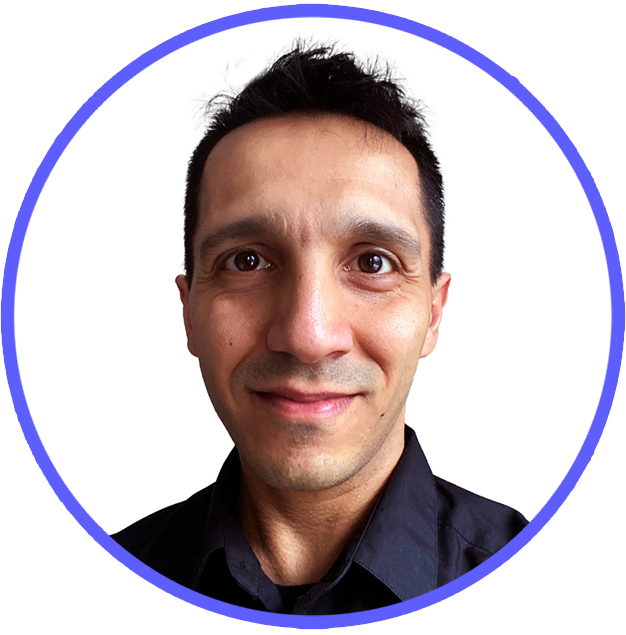
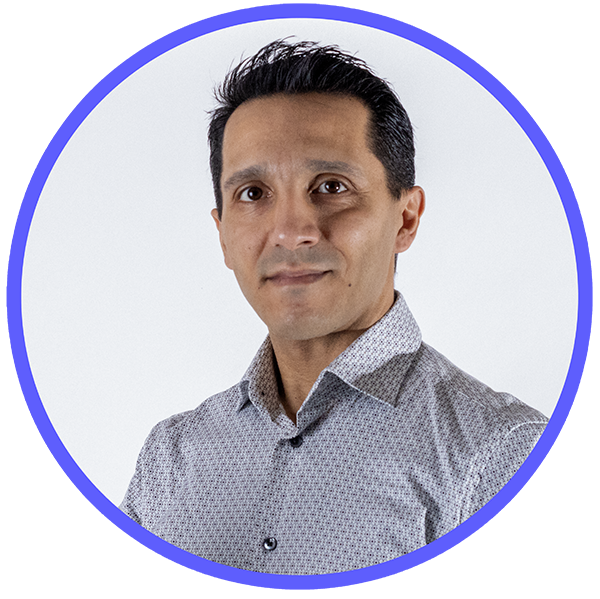
new img hero

diff --git a/src/style/hero/hero.css b/src/style/hero/hero.css
@@ -1,1 +1,1 @@
-.hero-wrapper{padding-top:80px;max-width:100vw;min-height:100vh;width:100vw;display:-webkit-box;display:-ms-flexbox;display:flex;-webkit-box-pack:justify;-ms-flex-pack:justify;justify-content:space-between;-webkit-box-align:center;-ms-flex-align:center;align-items:center;-webkit-box-orient:horizontal;-webkit-box-direction:normal;-ms-flex-direction:row;flex-direction:row;-ms-flex-wrap:wrap;flex-wrap:wrap;background:-webkit-gradient(linear,left top,right top,from(white),to(rgb(116,253,255)));background:linear-gradient(to right,white,rgb(116,253,255))}.hero-wrapper .hero-container{max-width:1200px;min-height:50vh;width:1200px;display:-webkit-box;display:-ms-flexbox;display:flex;-webkit-box-pack:justify;-ms-flex-pack:justify;justify-content:space-between;-webkit-box-align:center;-ms-flex-align:center;align-items:center;-webkit-box-orient:horizontal;-webkit-box-direction:normal;-ms-flex-direction:row;flex-direction:row;-ms-flex-wrap:wrap;flex-wrap:wrap;margin:auto}.hero-wrapper .hero-container .hero-content{max-width:700px;min-height:200px;width:700px;display:-webkit-box;display:-ms-flexbox;display:flex;-webkit-box-pack:justify;-ms-flex-pack:justify;justify-content:space-between;-webkit-box-align:start;-ms-flex-align:start;align-items:flex-start;-webkit-box-orient:vertical;-webkit-box-direction:normal;-ms-flex-direction:column;flex-direction:column;-ms-flex-wrap:wrap;flex-wrap:wrap}.hero-wrapper .hero-container .hero-content .hero-heading{font-family:"Open Sans",serif;font-size:60px;font-weight:700}.hero-wrapper .hero-container .hero-content .hero-heading .hero-name{font-family:"Open Sans",serif;font-size:60px;font-weight:700;color:rgb(0,0,255)}.hero-wrapper .hero-container .hero-content .typewriter-container{font-family:"Open Sans",serif;font-size:60px;font-weight:700;color:rgb(0,0,255)}.hero-wrapper .hero-container .hero-content .hero-info{font-family:"Roboto",serif;font-size:18px;letter-spacing:1.5px;line-height:30px;font-weight:300;color:#212121;max-width:600px;min-height:auto;width:600px;margin-top:1rem;text-align:justify}.hero-wrapper .hero-container .hero-content .hero-icons{max-width:150px;min-height:50px;width:150px;display:-webkit-box;display:-ms-flexbox;display:flex;-ms-flex-pack:distribute;justify-content:space-around;-webkit-box-align:start;-ms-flex-align:start;align-items:flex-start;-webkit-box-orient:horizontal;-webkit-box-direction:normal;-ms-flex-direction:row;flex-direction:row;-ms-flex-wrap:wrap;flex-wrap:wrap;margin:30px 0}.hero-wrapper .hero-container .hero-content .hero-icons .hero-icon{color:rgb(0,0,255);-webkit-transition:color 0.3s ease;transition:color 0.3s ease}.hero-wrapper .hero-container .hero-content .hero-icons .hero-icon:hover{-webkit-transform:scale(1.15);transform:scale(1.15);color:#23a345}.hero-wrapper .hero-container .hero-content .hero-cta-container{display:-webkit-box;display:-ms-flexbox;display:flex;-webkit-box-pack:justify;-ms-flex-pack:justify;justify-content:space-between;-webkit-box-align:center;-ms-flex-align:center;align-items:center;-webkit-box-orient:horizontal;-webkit-box-direction:normal;-ms-flex-direction:row;flex-direction:row;-ms-flex-wrap:wrap;flex-wrap:wrap;max-width:450px;min-height:auto;width:450px;text-align:center}.hero-wrapper .hero-container .hero-content .hero-cta-container .hero-cta{font-family:"Roboto",serif;font-size:18px;letter-spacing:1.5px;line-height:30px;font-weight:300;color:#212121;width:200px;height:50px;background-color:rgb(0,0,255);color:#FFF;border-radius:4px;border:none;cursor:pointer;cursor:pointer}.hero-wrapper .hero-container .hero-content .hero-cta-container .hero-cta:hover{background-color:#23a345;color:#FFF;-webkit-transform:scale(1.05);transform:scale(1.05)}.hero-wrapper .hero-container .hero-content .hero-cta-container .hero-cta:active{background-color:#FF5722;-webkit-transform:scale(0.95);transform:scale(0.95)}.hero-wrapper .hero-image{max-width:400px;min-height:600px;width:400px;display:-webkit-box;display:-ms-flexbox;display:flex;-webkit-box-pack:center;-ms-flex-pack:center;justify-content:center;-webkit-box-align:center;-ms-flex-align:center;align-items:center;-webkit-box-orient:horizontal;-webkit-box-direction:normal;-ms-flex-direction:row;flex-direction:row;-ms-flex-wrap:wrap;flex-wrap:wrap}.hero-wrapper .hero-image img{width:100%;max-width:500px;height:auto}
+.hero-wrapper{padding-top:80px;max-width:100vw;min-height:100vh;width:100vw;display:-webkit-box;display:-ms-flexbox;display:flex;-webkit-box-pack:justify;-ms-flex-pack:justify;justify-content:space-between;-webkit-box-align:center;-ms-flex-align:center;align-items:center;-webkit-box-orient:horizontal;-webkit-box-direction:normal;-ms-flex-direction:row;flex-direction:row;-ms-flex-wrap:wrap;flex-wrap:wrap;background:-webkit-gradient(linear,left top,right top,from(white),to(rgb(116,253,255)));background:linear-gradient(to right,white,rgb(116,253,255))}.hero-wrapper .hero-container{max-width:1200px;min-height:auto;width:1200px;display:-webkit-box;display:-ms-flexbox;display:flex;-webkit-box-pack:justify;-ms-flex-pack:justify;justify-content:space-between;-webkit-box-align:center;-ms-flex-align:center;align-items:center;-webkit-box-orient:horizontal;-webkit-box-direction:normal;-ms-flex-direction:row;flex-direction:row;-ms-flex-wrap:wrap;flex-wrap:wrap;margin:auto}.hero-wrapper .hero-container .hero-content{max-width:700px;min-height:200px;width:700px;display:-webkit-box;display:-ms-flexbox;display:flex;-webkit-box-pack:justify;-ms-flex-pack:justify;justify-content:space-between;-webkit-box-align:start;-ms-flex-align:start;align-items:flex-start;-webkit-box-orient:vertical;-webkit-box-direction:normal;-ms-flex-direction:column;flex-direction:column;-ms-flex-wrap:wrap;flex-wrap:wrap}.hero-wrapper .hero-container .hero-content .hero-heading{font-family:"Open Sans",serif;font-size:60px;font-weight:700}.hero-wrapper .hero-container .hero-content .hero-heading .hero-name{font-family:"Open Sans",serif;font-size:60px;font-weight:700;color:rgb(0,0,255)}.hero-wrapper .hero-container .hero-content .typewriter-container{font-family:"Open Sans",serif;font-size:60px;font-weight:700;color:rgb(0,0,255)}.hero-wrapper .hero-container .hero-content .hero-info{font-family:"Roboto",serif;font-size:18px;letter-spacing:1.5px;line-height:30px;font-weight:300;color:#212121;max-width:600px;min-height:auto;width:600px;margin-top:1rem;text-align:justify}.hero-wrapper .hero-container .hero-content .hero-icons{max-width:150px;min-height:50px;width:150px;display:-webkit-box;display:-ms-flexbox;display:flex;-ms-flex-pack:distribute;justify-content:space-around;-webkit-box-align:start;-ms-flex-align:start;align-items:flex-start;-webkit-box-orient:horizontal;-webkit-box-direction:normal;-ms-flex-direction:row;flex-direction:row;-ms-flex-wrap:wrap;flex-wrap:wrap;margin:30px 0}.hero-wrapper .hero-container .hero-content .hero-icons .hero-icon{color:rgb(0,0,255);-webkit-transition:color 0.3s ease;transition:color 0.3s ease}.hero-wrapper .hero-container .hero-content .hero-icons .hero-icon:hover{-webkit-transform:scale(1.15);transform:scale(1.15);color:#23a345}.hero-wrapper .hero-container .hero-content .hero-cta-container{display:-webkit-box;display:-ms-flexbox;display:flex;-webkit-box-pack:justify;-ms-flex-pack:justify;justify-content:space-between;-webkit-box-align:center;-ms-flex-align:center;align-items:center;-webkit-box-orient:horizontal;-webkit-box-direction:normal;-ms-flex-direction:row;flex-direction:row;-ms-flex-wrap:wrap;flex-wrap:wrap;max-width:450px;min-height:auto;width:450px;text-align:center}.hero-wrapper .hero-container .hero-content .hero-cta-container .hero-cta{font-family:"Roboto",serif;font-size:18px;letter-spacing:1.5px;line-height:30px;font-weight:300;color:#212121;width:200px;height:50px;background-color:rgb(0,0,255);color:#FFF;border-radius:4px;border:none;cursor:pointer;cursor:pointer}.hero-wrapper .hero-container .hero-content .hero-cta-container .hero-cta:hover{background-color:#23a345;color:#FFF;-webkit-transform:scale(1.05);transform:scale(1.05)}.hero-wrapper .hero-container .hero-content .hero-cta-container .hero-cta:active{background-color:#FF5722;-webkit-transform:scale(0.95);transform:scale(0.95)}.hero-wrapper .hero-image{max-width:500px;min-height:auto;width:500px;display:-webkit-box;display:-ms-flexbox;display:flex;-webkit-box-pack:center;-ms-flex-pack:center;justify-content:center;-webkit-box-align:center;-ms-flex-align:center;align-items:center;-webkit-box-orient:horizontal;-webkit-box-direction:normal;-ms-flex-direction:row;flex-direction:row;-ms-flex-wrap:wrap;flex-wrap:wrap}.hero-wrapper .hero-image img{width:100%;max-width:500px;height:auto}

diff --git a/src/components/about/About.jsx b/src/components/about/About.jsx
@@ -23,7 +23,7 @@ const About = () => {
                 I am always been a creative person, in this moment of life i like to create beautifull webpage from scratch or Figma Design.
                 After attending few course in Java i figured out that i wanted to to something more "visual", so i started approaching front end development 
                 through on line resource and soon i was able to create and style webpage.
-                Taking advanced course followed by a mentor and being part of a community of developer, helped me to discover and learn more advanced technology and tools
+                Taking advanced course followed by a mentor and being part of a community of developer, helped me to discover and learn more advanced technology and
                 than just HTML. I like to write my website in <span>React</span> and style with <span>Sass</span>. When creating a new web application 
                 i take into consideration the user experience. I combine good design, technology and innovation in all my project.
                 Currently i am focused in learning and undestand more Back end development.

diff --git a/src/style/hero/_hero.scss b/src/style/hero/_hero.scss
@@ -9,7 +9,7 @@
     background: linear-gradient(to right, white, rgb(116, 253, 255));
 
     .hero-container {
-        @include container(1200px, 50vh);
+        @include container(1200px, auto);
         @include flexbox(space-between, center);
         margin: auto;
 
@@ -68,8 +68,9 @@
     }
 
     .hero-image {
-        @include container(400px, 600px);
+        @include container(500px, auto);
         @include flexbox(center, center);
+
         img {
         width: 100%;
         max-width: 500px;

diff --git a/src/components/projects/Projects.jsx b/src/components/projects/Projects.jsx
@@ -1,4 +1,3 @@
-import { Link } from 'react-router-dom';
 import Architect from '../../assets/images/architect.webp';
 import Horizon from '../../assets/images/horizon.webp';
 import RideReady from '../../assets/images/ride-ready.webp';

diff --git a/vite.config.js b/vite.config.js
@@ -4,5 +4,5 @@ import react from '@vitejs/plugin-react'
 // https://vite.dev/config/
 export default defineConfig({
   plugins: [react()],
-  base: '/portfolio/',
+  base: '/portfolio',
 })
